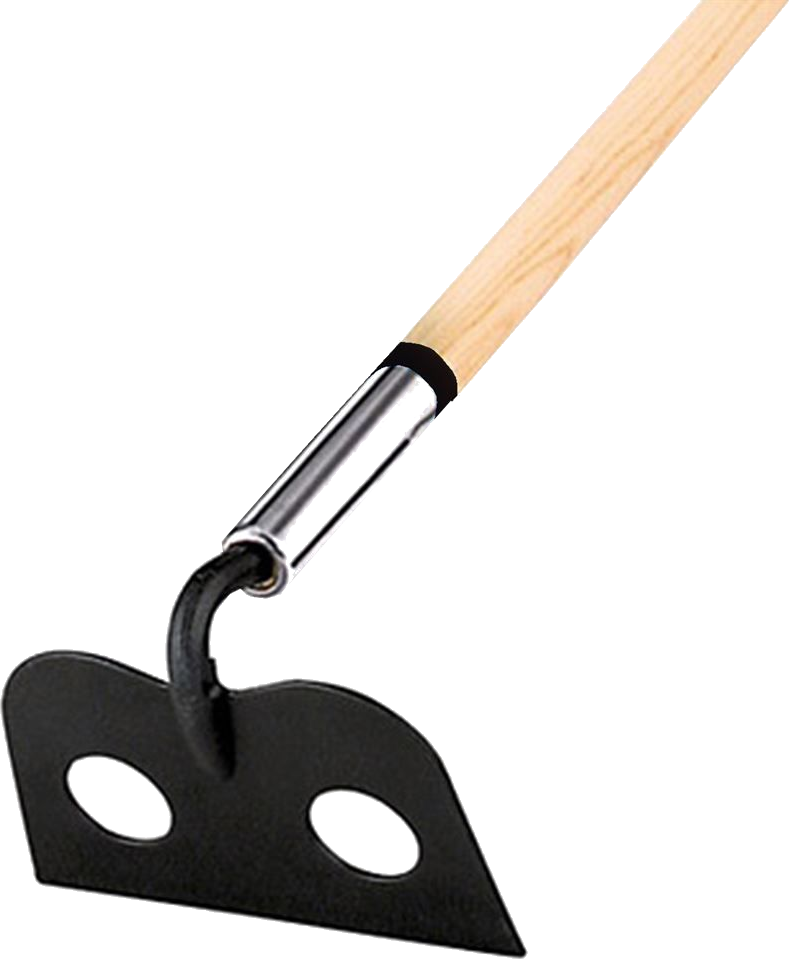
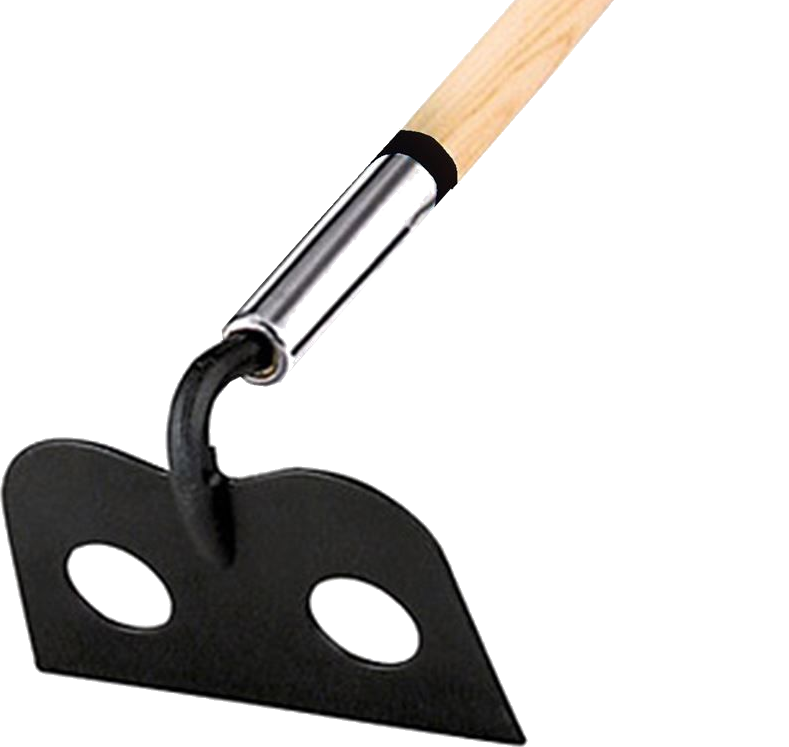
Misc

Changed region(s): [[0.0, 0.0, 1.0, 1.0]]

diff --git a/GT-Hoe.html b/GT-Hoe.html
@@ -438,7 +438,7 @@ includeHTML();
                 border-right-width: medium; ">
             <b>Collinear Hoe</b>
 
-            <p style="margin-bottom: 0; text-align: center; "><img src="Images/GT-Hoe-Collinear.png" alt="Image not found" style="width: 95%; " /></p>
+            <p style="margin-bottom: 0; text-align: center; "><img src="Images/GT-Hoe-Collinear.png" alt="Image not found" style="width: 85%; " /></p>
         </td>
         <td style="border-style: solid;
                 border-color: black;
@@ -1138,7 +1138,7 @@ includeHTML();
                 border-right-width: medium; ">
             <b>Loop Hoe</b>
 
-            <p style="margin-bottom: 0; text-align: center; "><img src="Images/GT-Hoe-LoopHoe.png" alt="Image not found" style="width: 75%; " /></p>
+            <p style="margin-bottom: 0; text-align: center; "><img src="Images/GT-Hoe-LoopHoe.png" alt="Image not found" style="width: 65%; " /></p>
         </td>
         <td style="border-style: solid;
                 border-color: black;
@@ -1367,7 +1367,7 @@ includeHTML();
             <br>&amp; other
             <br>3-Sided Hoes
 
-            <p style="margin-bottom: 0; text-align: center; "><img src="Images/GT-Hoe-OnionHoe.png" alt="Image not found" style="width: 85%; " /></p>
+            <p style="margin-bottom: 0; text-align: center; "><img src="Images/GT-Hoe-OnionHoe.png" alt="Image not found" style="width: 75%; " /></p>
 
 			<hr class="style2">
             <p style="font-size: 14px; margin-bottom: 0px;">Also known as:</p>        
@@ -1896,7 +1896,7 @@ includeHTML();
                 border-right-width: medium; ">
             <b>Warren Hoe</b>
 
-            <p style="margin-bottom: 0; text-align: center; "><img src="Images/GT-Hoe-WarrenHoe.png" alt="Image not found" style="width: 75%; " /></p>
+            <p style="margin-bottom: 0; text-align: center; "><img src="Images/GT-Hoe-WarrenHoe.png" alt="Image not found" style="width: 65%; " /></p>
         </td>
         <td style="border-style: solid;
                 border-color: black;